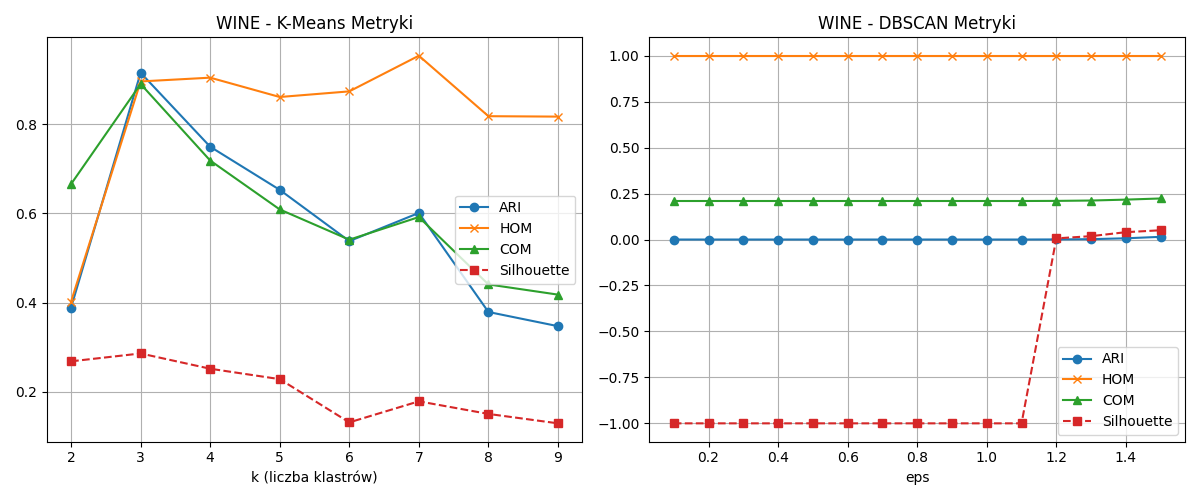
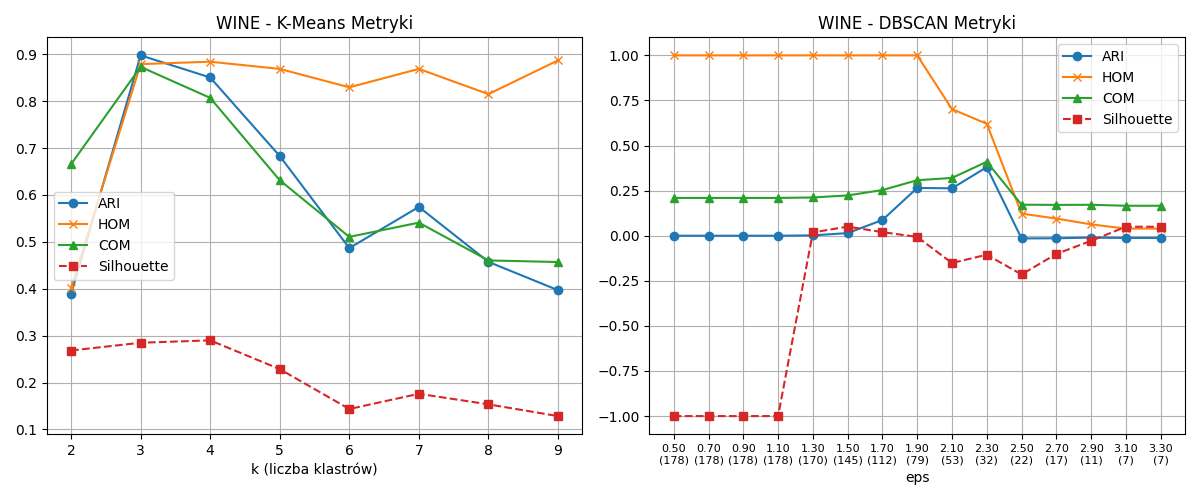
i feel so sigma 🤑👺🧀
chyba git i cba

diff --git a/zadanie_1.py b/zadanie_1.py
@@ -74,13 +74,10 @@ def super_funkacja(X, y, name, ax_s, ax_b, ax_w, pg):
         print(
             f"{name.upper()} | K-Means (k={k_values[idx_best]}): Silhouette={scores[idx_best]:.3f}, ARI={all_ari[idx_best]:.3f}, HOM={all_homo[idx_best]:.3f}, COM={all_com[idx_best]:.3f}")
 
-        # Rysowanie wykresów liniowych (Silhouette + Metryki zewn.) dla pg=5 na przekazanym obiekcie ax_s
         if ax_s is not None:
-            # Silhouette na innej osi (bliźniak) lub na tym samym z dopiskiem
             ax_s.plot(k_values, all_ari, marker='o', label='ARI', color='tab:blue')
             ax_s.plot(k_values, all_homo, marker='x', label='HOM', color='tab:orange')
             ax_s.plot(k_values, all_com, marker='^', label='COM', color='tab:green')
-            # Dodajemy Silhouette (przerywaną czerwoną linią) do tego samego wykresu
             ax_s.plot(k_values, scores, marker='s', linestyle='--', label='Silhouette', color='tab:red')
 
             ax_s.set_title(f"{name.upper()} - K-Means Metryki")
@@ -88,9 +85,8 @@ def super_funkacja(X, y, name, ax_s, ax_b, ax_w, pg):
             ax_s.legend()
             ax_s.grid(True)
 
-        # Rysowanie punktów tylko dla zbioru Iris
         if name == "iris":
-            fig_rz, ax_rz = plt.subplots(1, 2, figsize=(10, 4))
+            fig_rz, ax_rz = plt.subplots(1, 2, figsize=(15, 4))
             ax_rz[0].scatter(X[:, 2], X[:, 3], c=y, cmap='viridis', edgecolor='k')
             ax_rz[0].set_xlabel("Długość płatka (Petal Length)")
             ax_rz[0].set_ylabel("Szerokość płatka (Petal Width)")
@@ -102,9 +98,7 @@ def super_funkacja(X, y, name, ax_s, ax_b, ax_w, pg):
             ax_rz[1].set_title("Zbiór Iris: Nakładanie się klas")
 
             fig_rz.tight_layout()
-            # ZAPISUJEMY UŻYWAJĄC OBIEKTU fig_rz:
             fig_rz.savefig("iris_projections.png")
-            # ZAMYKAMY TEN WYKRES, ABY NIE BLOKOWAŁ METRYK:
             plt.close(fig_rz)
 
 
@@ -112,7 +106,17 @@ def dbscan(X, y, name, ax_s, ax_b, ax_w, pg):
     scaler = StandardScaler()
     X_scaled = scaler.fit_transform(X)
 
-    eps_values = np.arange(0.1, 1.6, 0.1)
+    eps_dict = {
+        "iris": np.arange(0.2, 1.5, 0.1),
+        "wine": np.arange(0.5, 3.5, 0.2),
+        "2_1": np.arange(0.1, 1.6, 0.1),
+        "2_2": np.arange(0.1, 0.8, 0.05),
+        "2_3": np.arange(0.1, 0.6, 0.05),
+        "3_1": np.arange(0.1, 1.0, 0.05)
+        # "3_2": np.arange(),
+        # "3_3": np.arange()
+    }
+    eps_values = eps_dict.get(name, np.arange(0.1, 1.6, 0.1))
 
     scores = []
     all_ari = []
@@ -127,8 +131,10 @@ def dbscan(X, y, name, ax_s, ax_b, ax_w, pg):
 
         all_predictions.append(y_db)
 
-        n_clusters = len(set(y_db))
+        n_clusters = len(set(y_db)) - (1 if -1 in y_db else 0)
         n_clusters_list.append(n_clusters)
+
+        print(f"TEST TEST TEST DLA EPS {eps}, n_clusters {n_clusters}")
 
         if 1 < n_clusters < len(X_scaled):
             score = silhouette_score(X_scaled, y_db)
@@ -146,6 +152,8 @@ def dbscan(X, y, name, ax_s, ax_b, ax_w, pg):
 
         print(f"Wyniki dla eps {eps}, zbioru {nazwa} - DBSCAN: ARI={ari_km:.3f}, HOM={hom_km:.3f}, COM={com_km:.3f}, ")
 
+    x_labels = [f"{eps:.2f}\n({k})" for eps, k in zip(eps_values, n_clusters_list)]
+
     if pg == 2:
         idx_best = np.argmax(scores)
         idx_worst = np.argmin(scores)
@@ -154,6 +162,9 @@ def dbscan(X, y, name, ax_s, ax_b, ax_w, pg):
         ax_s.set_title(f"Zbiór {name} - Silhouette")
         ax_s.set_xlabel("eps")
         ax_s.grid(True)
+
+        ax_s.set_xticks(eps_values)
+        ax_s.set_xticklabels(x_labels, fontsize=8)
 
         voronoi_buff(X_scaled, y, name, all_predictions, ax_b, ax_w,
                      ax_s, eps_values, scores, idx_best, idx_worst)
@@ -169,6 +180,9 @@ def dbscan(X, y, name, ax_s, ax_b, ax_w, pg):
         ax_s.set_xlabel("eps")
         ax_s.legend()
         ax_s.grid(True)
+
+        ax_s.set_xticks(eps_values)
+        ax_s.set_xticklabels(x_labels, fontsize=8)
 
         voronoi_buff(X_scaled, y, name, all_predictions, ax_b, ax_w,
                      ax_s, eps_values, all_ari, idx_best, idx_worst)
@@ -190,6 +204,9 @@ def dbscan(X, y, name, ax_s, ax_b, ax_w, pg):
         ax_s.set_xlabel("eps")
         ax_s.legend()
         ax_s.grid(True)
+
+        ax_s.set_xticks(eps_values)
+        ax_s.set_xticklabels(x_labels, fontsize=8)
 
 def voronoi_buff(X_scaled, y, name, all_predictions, ax_b, ax_w, ax_s, values, scores, idx_best, idx_worst):
     # Woronoj najlepszy
@@ -218,7 +235,7 @@ def plot_voronoi_diagram(X, y_true, y_pred, ax):
     Z = nn.predict(np.c_[xx.ravel(), yy.ravel()])
     Z = Z.reshape(xx.shape)
 
-    custom_cmap = 'tab10'
+    custom_cmap = 'tab20'
     ax.contourf(xx, yy, Z, alpha=0.4, cmap=custom_cmap)
 
     vor = Voronoi(X)
@@ -240,7 +257,7 @@ def plot_voronoi_diagram(X, y_true, y_pred, ax):
 lista_zbiorow = ["2_1", "2_2", "2_3", "3_1", "3_2", "3_3"]
 lista_real = ["iris", "wine"]
 
-for pg in [5]:
+for pg in [1, 2, 3, 4, 5]:
     if pg in [1, 2, 3, 4]:
 
         fig, axes = plt.subplots(6, 3, figsize=(18, 30))
@@ -274,7 +291,7 @@ for pg in [5]:
             else:
                 X, y = load_wine(return_X_y=True)
 
-            fig_metryki, ax_metryki = plt.subplots(1, 2, figsize=(12, 5))
+            fig_metryki, ax_metryki = plt.subplots(1, 2, figsize=(15, 5))
             # Ponieważ dla pg=5 nie rysujemy siatki z Woronojem,
             # przekazujemy do funkcji wartości None zamiast obiektów osi ax
             super_funkacja(X, y, nazwa, ax_metryki[0], None, None, pg)
